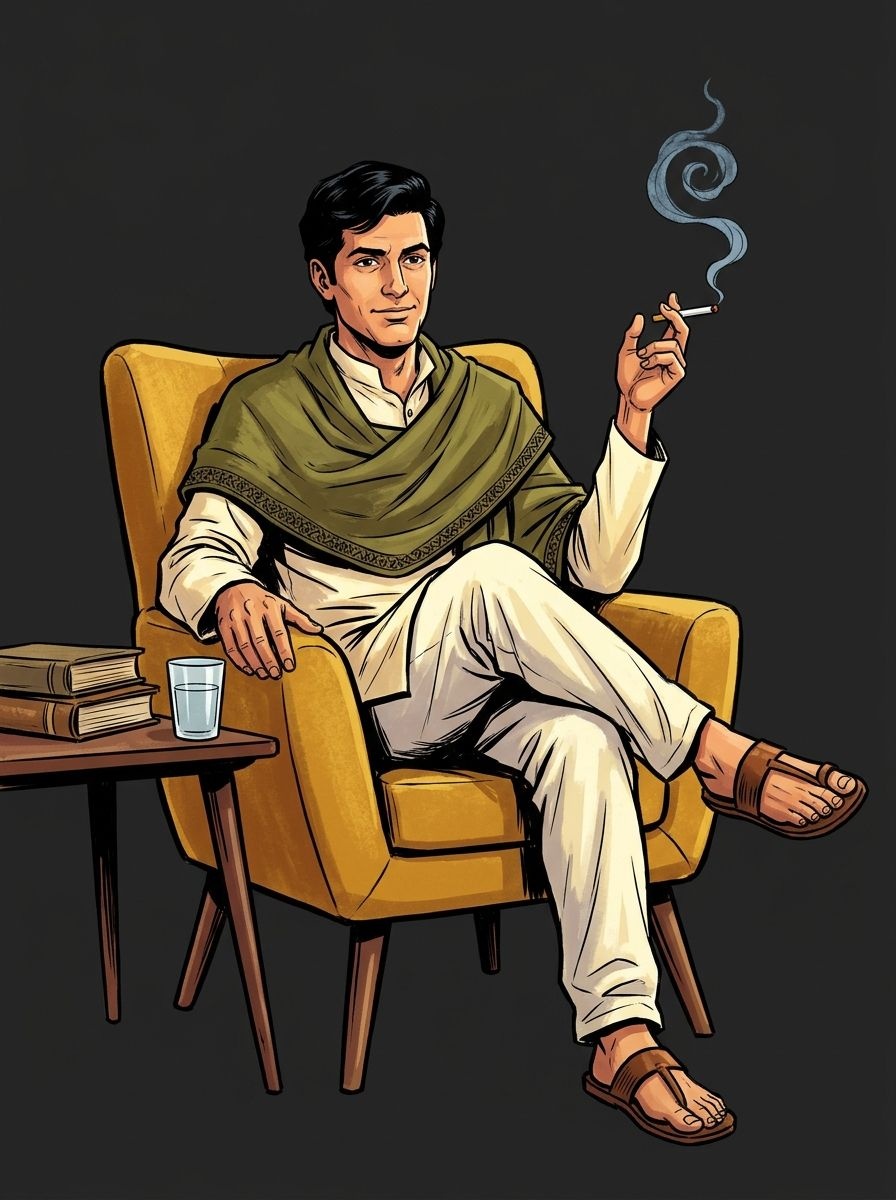
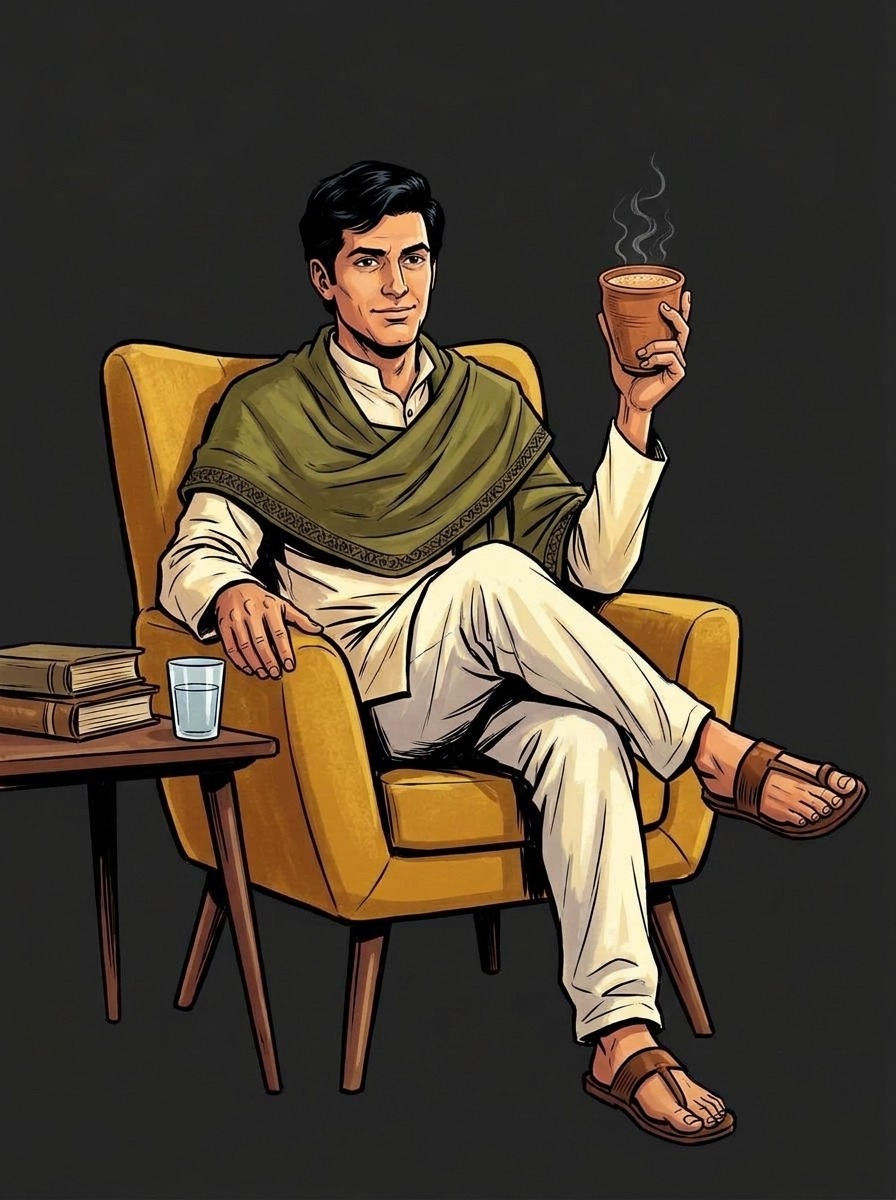
Update Feluda illustration: replace cigarette with steaming cup of Kolkata chai

diff --git a/src/components/FeludaArmchairCartoon.jsx b/src/components/FeludaArmchairCartoon.jsx
@@ -30,7 +30,7 @@ export const FeludaArmchairCartoon = ({
             <source type="image/webp" srcSet="/feluda_cartoon_armchair.webp" />
             <img
               src="/feluda_cartoon_armchair.jpg"
-              alt="Cartoon Feluda sitting in vintage armchair with smoking cigarette"
+              alt="Cartoon Feluda sitting in vintage armchair with a steaming cup of Kolkata chai"
               width="896"
               height="1200"
               loading="lazy"
